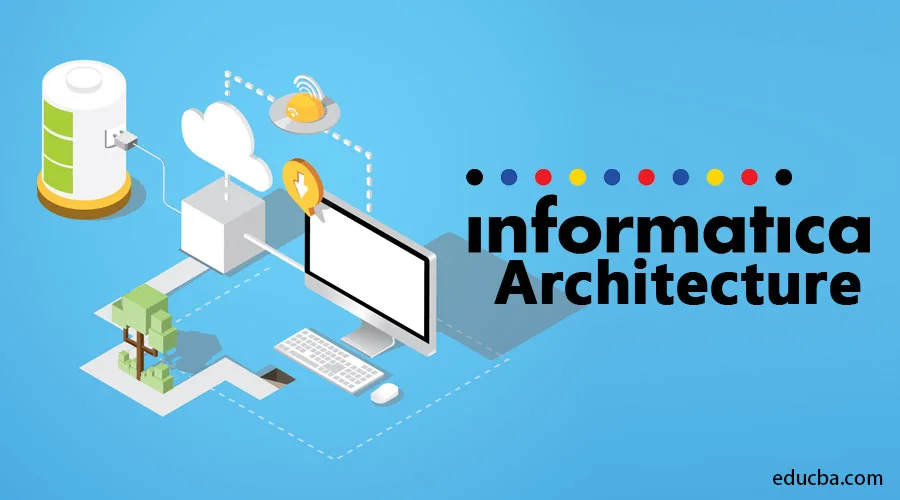
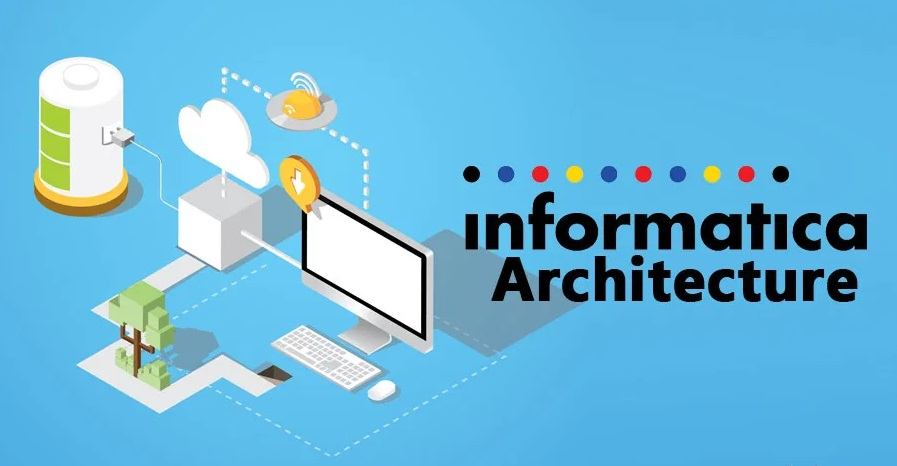
Changed Index

Changed region(s): [[0.0312, 0.1202, 0.9677, 0.9013], [0.8428, 0.9313, 0.9989, 0.9914]]

diff --git a/Static_Web/index.html b/Static_Web/index.html
@@ -14,6 +14,7 @@
     font-family: Arial, sans-serif;
     margin: 0;
     padding: 0;
+    background-color: #fff3cd;
   }
   
   h1 {
@@ -119,29 +120,51 @@
         </ul>
       </nav>
     </header>
-    <div style="text-align:center;">
-    <img src="/img/Informatica-Architecture.jpg" alt="Where data comes to life"/>
+    <div style="text-align:center; margin-top: 50px;">
+    <a href = "https://integrations-xzmg.onrender.com/login.html" target="_blank" ><img src="img/Informatica-Architecture.jpg" alt="Where data comes to life"/></a>
     </div>
     </br>
-    <a href = "https://integrations-xzmg.onrender.com/login.html" target="_blank" "><button class="cool-button" style="margin-left: 700px;">Web Page</button> </a>
+    
+    <a href = "https://integrations-xzmg.onrender.com/login.html" target="_blank" ><button class="cool-button" style="margin-left: 700px;">Web Page</button> </a>
      </br>
       </br>
 
     <h1 style="text-align:center;">About Us</h1>
     <section id="overview">
       <h2>Overview</h2>
-      <p>We empower businesses to realize transformative outcomes by bringing their data to life. When properly unlocked, data becomes a living and trusted asset that's democratized across the organization. Through our Intelligent Data Management Cloud™, companies are driving better business results and creating a competitive advantage.</p>
+      <p>Informatica offers a comprehensive suite of data management services and solutions to help organizations ensure the accuracy, consistency, and security of their data, while also improving data governance and compliance.Informatica Cloud Data Integration tool is a drag and drop tool that extracts, loads and transforms the data from one data source to another data source. The vital motive of this software as a service application is to provide a no code services where user can interact with the application interface, drag the objects from the panel and design the mappings to transfer or copy the data from across various applications. This application has a robust authentication which can be enabled through native methodology and LDAP as well, which will help the organizations to integrate with their single sign on technology. Informatica Cloud provides a wide variety of services like data integration, application integration, data quality, monitoring services, API management, Data governance etc. Access to these services is controlled by the system administrator who will provide grants based on the user roles. A system administrator has the capability to add the users to the system and provide the required privileges to access the services. For the convenience of the explanation, I am taking vital services used by majority of the users. Once the administrator adds the user information in the administrator console, respective users will receive an email to accept the account creation and set up the authentication details. 
+The user interaction with the applications starts with login page, where user can provide the username and the password credentials to access the services. If the user forgets the password, they can reset their password through the URL provided on the login page. If the organization enabled the single sign on, user will be redirected to their environment to authenticate and will be entitled to the properties provided by the respective organization.  If the user is logging through native authentication, then user will prompt to provide a one-time password which is sent to the registered email. At this step, the application will identify if the user is administrator or user based on the role assigned to the user. Up on successful login, user will be landed to the services page where user can select their services. At this step, an administrator has the privileges to access the user management console. In the user management console, user can override the normal user information and edit the privileges that the user can perform. On the other hand, admin can also add a new user by providing the PII information which are required for the new profile. In the administration console, system administrator can review the user access metrics through data visualizations like bar charts, graphs, pie charts. In the case of a normal user, they will have the access to the services which are limited based on the role provided by the administrator. For example, a developer can access only the developing services, where as an operator is restricted to the monitoring services. A user can access their respective personal information and can change the details at any desired time, where the details also include changing the password. The login page would be same for both administrators and users, but the information they see up on login will vary. On the other hand, administrators and the users will have access to the customer support
+page where they will raise the tickets for any trouble shooting and technical down time. They do not need a separate login rather can navigate through the home page.  Informatica Data Integration allows organizations to integrate data from various sources, including databases, flat files, cloud applications, and web services. It provides a range of connectors and adapters to connect to different data sources and extract data for integration.Informatica Data Integration provides a range of data transformation functions to cleanse, standardize, and enrich data. It includes data profiling, data quality, and data enrichment capabilities to ensure data accuracy and completeness.Informatica Data Integration supports the integration of data from cloud-based applications, such as Salesforce, Workday, and Amazon Web Services (AWS), enabling organizations to manage their data from multiple sources in a unified manner.</p>
 
     </section>
     
     <section id="products">
       <h2>Products</h2>
+      <br>
+      
+
       <ul>
-        <li>Data Integration</li>
-        <li>Data Quality</li>
-        <li>Master Data Management</li>
-        <li>Cloud Integration</li>
-        <li>Big Data Management</li>
+        <li><strong>Data Integration</strong> </li>
+        <p>Informatica Data Integration is a comprehensive suite of tools and technologies provided by Informatica that enables organizations to integrate and manage their data from various sources, including cloud-based and on-premises systems. It provides a range of capabilities to extract, transform, and load (ETL) data, as well as data replication, data virtualization, and data masking.Informatica offers data integration services to help organizations consolidate, migrate, and synchronize data across different systems and applications. With Informatica's data integration services, businesses can ensure that their data is accurate, consistent, and up-to-date. Informatica Data Integration provides real-time data integration capabilities, allowing organizations to move and integrate data in real-time, enabling near-instant access to critical data.Informatica's Data Integration Platform is a comprehensive solution that allows organizations to integrate and connect different applications across on-premises, cloud, and hybrid environments. This includes support for a wide range of integration patterns, including real-time, batch, and event-driven integration.</p>
+        <br>
+        <li><strong>Application Integration</strong></li>
+        <p>Application integration is the process of connecting different software applications to allow them to share data and functionality. Informatica offers a variety of application integration services to help organizations streamline their operations and improve their productivity.Informatica's data quality services help organizations ensure that their data is accurate, complete, and consistent. This includes services like data profiling, data cleansing, and data enrichment. Informatica's data governance services help organizations establish policies and procedures for managing data, ensuring compliance with regulations and industry standards, and improving data quality and accuracy.</p>
+        <br>
+        <li><strong>Administrator</strong></li>
+        <p>
+An Informatica Administrator is responsible for managing and maintaining the Informatica data integration platform, ensuring that it is running efficiently and effectively.Informatica Administrators are responsible for installing and configuring the Informatica software on the appropriate hardware and operating system.Informatica Administrators manage user accounts and permissions, ensuring that users have the appropriate level of access to the data and functionality they need.Informatica Administrators monitor system performance and make adjustments to ensure that the platform is running efficiently.Informatica Administrators are responsible for creating and maintaining backups of critical data and developing recovery plans in case of system failures.Informatica Administrators manage the installation of upgrades and patches to ensure that the platform is up-to-date and running smoothly.Informatica's master data management services help organizations create and manage a centralized, authoritative source of master data. This helps ensure that data is consistent across different systems and applications, and can improve data quality and governance.Informatica's data privacy services help organizations ensure that their data is handled in accordance with privacy regulations and standards. This includes services like data discovery, data classification, and data anonymization.
+        </p>
+        <br>
+        <li><strong>Monitor</strong></li>
+        <p> Informatica Monitor is a web-based application provided by Informatica that allows users to monitor and manage their Informatica PowerCenter environment. It provides real-time monitoring of jobs, workflows, and sessions, as well as detailed information about system performance and resource utilization.Informatica Monitor allows users to monitor the status of jobs and workflows in real-time, including job progress, job history, and job status. It also provides detailed information about session logs and error messages.Informatica Monitor provides detailed information about system performance and resource utilization, including CPU usage, memory usage, and disk space usage. Informatica Monitor can be configured to send alerts and notifications when certain events occur, such as job failures or system errors.Informatica Monitor can be customized to meet the specific needs of an organization, including custom reports, dashboards, and alerts.Informatica's API management services allow organizations to create, manage, and publish APIs to enable seamless integration between different applications and data sources. This includes support for popular API management frameworks like REST and SOAP. Informatica offers a range of cloud data management services to help organizations manage their data in the cloud. This includes services like cloud data integration, cloud data quality, and cloud master data management. Informatica's application and data migration services help organizations migrate applications and data from one platform to another, while ensuring that data integrity and consistency is maintained throughout the migration process.</p>
+        <br>
+
+        <li><strong>Data Quality</strong></li>
+        <p> Informatica Data Quality (IDQ) is a comprehensive suite of data quality tools provided by Informatica that helps organizations to profile, cleanse, standardize, and enrich their data. IDQ provides a range of capabilities to ensure the accuracy, consistency, and completeness of data, as well as compliance with regulatory requirements.IDQ allows users to profile their data to identify and understand data quality issues, such as missing data, duplicates, and inconsistencies. It provides a variety of statistical measures to assess the quality of data and helps users to prioritize data quality issues based on their impact on the business.IDQ includes a range of data cleansing functions, such as data standardization, data parsing, and data validation, to help organizations improve the quality of their data. This helps to eliminate duplicates, correct errors, and ensure consistency across different systems.IDQ enables users to enhance their data with additional information from external sources, such as demographic data, location data, or firmographic data, to provide a more complete and accurate view of their customers, products, or services.IDQ supports data governance initiatives by providing a range of tools to manage data quality processes, policies, and standards, as well as data lineage and data quality metrics.Informatica's big data management services help organizations manage and analyze large volumes of data. This includes services like data integration, data quality, and data governance for big data environments. Informatica's data security services help organizations protect their data from unauthorized access and ensure compliance with security regulations and standards. This includes services like data masking, encryption, and access control.</p>
+        <br>
+        <li><strong>Customer Support</strong></li>
+        <p>Informatica offers customer support services to assist its customers with technical issues, questions, and concerns related to their use of Informatica products and solutions.Informatica provides technical support to customers through a variety of channels, including phone, email, and online chat. Customers can submit support tickets and receive assistance from Informatica's support team, who can help with troubleshooting, issue resolution, and product configuration.Informatica provides a comprehensive knowledge base that includes product documentation, troubleshooting guides, and how-to articles. Customers can access the knowledge base through the Informatica support portal and find answers to common questions and issues. Informatica offers training courses and certification programs to help customers improve their knowledge and skills in using Informatica products and solutions. The training courses cover a wide range of topics, from product installation and configuration to advanced data integration and data quality.Informatica hosts customer communities where customers can connect with other users, share their experiences and best practices, and get advice and support from Informatica experts and other community members.</p>
+        <br>
       </ul>
     </section>
     
@@ -152,7 +175,14 @@
         <li>Customer Support</li>
         <li>Training and Certification</li>
       </ul>
+    </br>
+  </br>
+
+    <img src="img/flow_diagram.jpeg" style="margin-left: 400px;" alt="Where data comes to life"/>
+    
     </section>
+
+    
     
     <footer>
       <p>&copy; 2023 Informatica. All rights reserved.</p>
